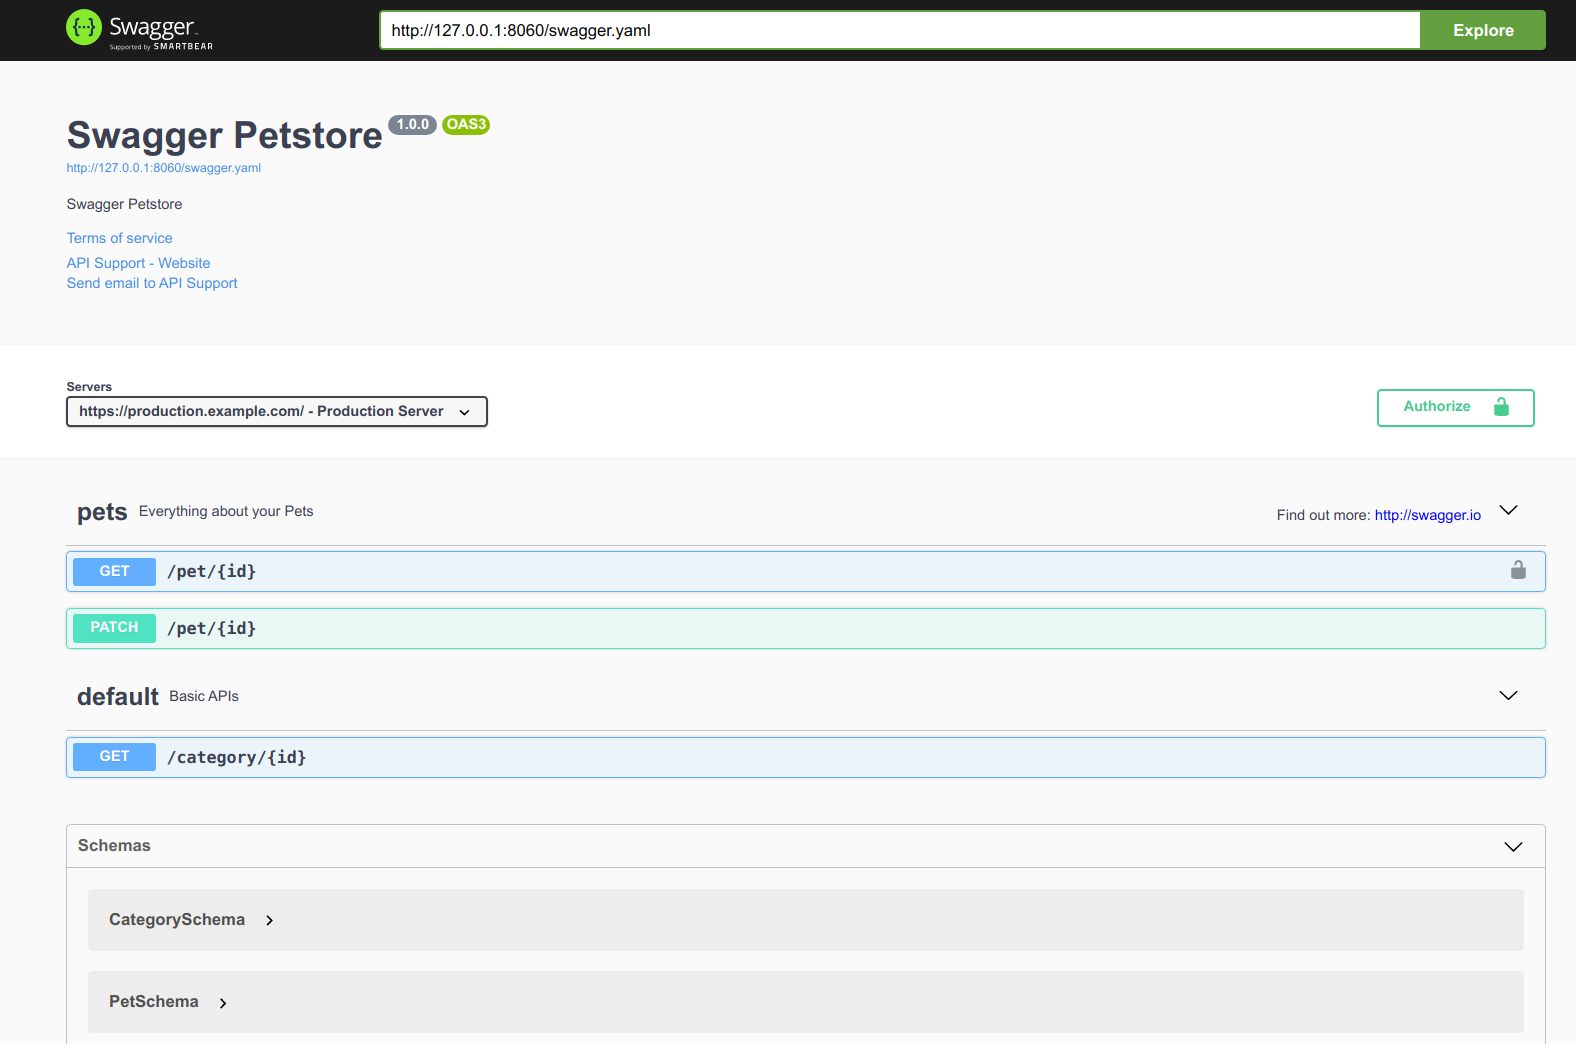
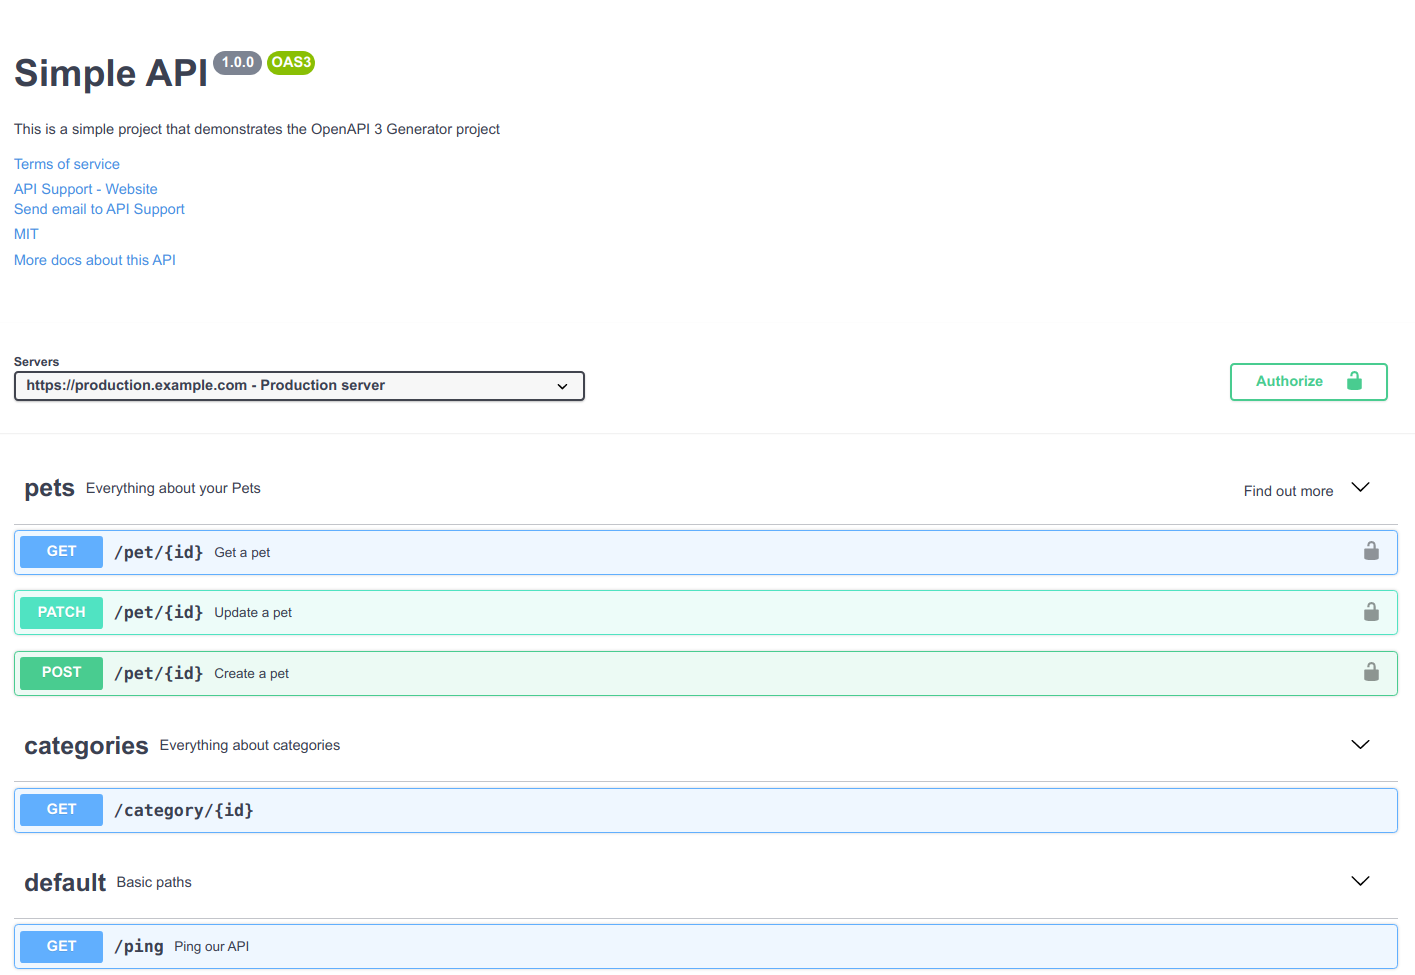
Add more improvements to the code

diff --git a/config.py b/config.py
@@ -1,21 +1,40 @@
-TITLE = 'Swagger Petstore'
-DESCRIPTION = 'Swagger Petstore'
+TITLE = 'Simple API'
+DESCRIPTION = 'This is a simple project that demonstrates the OpenAPI 3 Generator project'
 VERSION = '1.0.0'
 
 TERMS_OF_USE = 'http://example.com/terms/'
 
 CONTACT_NAME = 'API Support'
-CONTACT_URL = 'http://www.example.com/support'
+CONTACT_URL = 'http://example.com/support'
 CONTACT_EMAIL = 'support@example.com'
+
+EXTERNAL_DOCS_DESCRIPTION = 'More docs about this API'
+EXTERNAL_DOCS_URL = 'http://docs.example.com'
 
 LICENSE_NAME = 'MIT'
 LICENSE_URL = 'https://en.wikipedia.org/wiki/MIT_License'
 
-PRODUCTION_SERVER_URL = 'https://production.example.com/'
-PRODUCTION_SERVER_DESC = 'Production Server'
+OPENAPI_VERSION = '3.0.3'
 
-DEVELOPMENT_SERVER_URL = 'https://localhost:8000/'
-DEVELOPMENT_SERVER_DESC = 'Development Server'
+SERVERS = [
+    dict(url='https://production.example.com', description='Production server'),
+    dict(
+        url='https://{customer}.stage.example.com:{port}',
+        description='Stage server for a customer',
+        variables=dict(
+            username=dict(
+                default='mark',
+                description='A customer identifier',
+            ),
+            port=dict(
+                default='8001',
+                enum=['8001', '443'],
+                description='A customer identifier',
+            ),
+        )
+    ),
+    dict(url='http://localhost:8000', description='Development server'),
+]
 
 TAGS = [
     dict(
@@ -24,7 +43,11 @@ TAGS = [
         externalDocs=dict(description='Find out more', url='http://swagger.io')
     ),
     dict(
+        name='categories',
+        description='Everything about categories',
+    ),
+    dict(
         name='default',
-        description='Basic APIs'
+        description='Basic paths'
     )
 ]

diff --git a/api/paths/pets.py b/api/paths/pets.py
@@ -11,7 +11,7 @@ def add_paths(spec: APISpec):
     spec.path(
         path='/pet/{id}',
         parameters=[
-            param('id', 'ID of a Pet')
+            param('id', 'Identifier of a Pet')
         ],
         operations=dict(
             get=method(
@@ -21,6 +21,7 @@ def add_paths(spec: APISpec):
                     response_json(OK, 'An object a Pet', PetSchema),
                     response_json(NOT_FOUND, 'An object does not exist', ApiErrorSchema),
                 ],
+                operation_id='getPet',
                 security=[
                     bearer(),
                 ]
@@ -32,6 +33,7 @@ def add_paths(spec: APISpec):
                 responses=[
                     response_json(OK, 'A pet is created', PetSchema),
                 ],
+                operation_id='postPet',
                 security=[
                     bearer(),
                 ]
@@ -43,6 +45,7 @@ def add_paths(spec: APISpec):
                 responses=[
                     response_json(OK, 'Response an object of updated pet', PetSchema),
                 ],
+                operation_id='patchPet',
                 security=[
                     bearer(),
                 ]

diff --git a/api/project.py b/api/project.py
@@ -12,7 +12,7 @@ from api.paths import basic, pets, categories
 spec = APISpec(
     title=TITLE,
     version=VERSION,
-    openapi_version='3.0.2',
+    openapi_version=OPENAPI_VERSION,
     info=dict(
         description=DESCRIPTION,
         termsOfService=TERMS_OF_USE,
@@ -26,11 +26,9 @@ spec = APISpec(
             url=LICENSE_URL,
         )
     ),
-    servers=[
-        dict(url=PRODUCTION_SERVER_URL, description=PRODUCTION_SERVER_DESC),
-        dict(url=DEVELOPMENT_SERVER_URL, description=DEVELOPMENT_SERVER_DESC),
-    ],
+    servers=SERVERS,
     tags=TAGS,
+    externalDocs=dict(url=EXTERNAL_DOCS_URL, description=EXTERNAL_DOCS_DESCRIPTION),
     plugins=[
         MarshmallowPlugin(),
     ],

diff --git a/internal/helpers.py b/internal/helpers.py
@@ -32,7 +32,7 @@ def response_text(status: str, description: str):
     )
 
 
-def method(responses, tags=None, summary=None, request_body=None, security=None):
+def method(responses, tags=None, summary=None, request_body=None, operation_id=None, security=None):
     if not tags:
         tags = []
 
@@ -51,6 +51,9 @@ def method(responses, tags=None, summary=None, request_body=None, security=None)
 
     if summary:
         data['summary'] = summary
+
+    if operation_id:
+        data['operationId'] = operation_id
 
     if security:
         data['security'] = security

diff --git a/api/schemas/categories.py b/api/schemas/categories.py
@@ -5,14 +5,17 @@ class CategorySchema(Schema):
     id = fields.Int(
         dump_only=True,
         description='ID',
+        example=1,
     )
 
     name = fields.Str(
-        description='A name',
+        description='Name',
         required=True,
+        example='Pug dogs',
     )
 
     size = fields.Int(
         format='int64',
-        description='Size of name',
+        description='Number of elements in the category',
+        example=20,
     )

diff --git a/api/paths/categories.py b/api/paths/categories.py
@@ -9,10 +9,11 @@ def add_paths(spec: APISpec):
     spec.path(
         path='/category/{id}',
         parameters=[
-            param('id', 'ID of a Category')
+            param('id', 'Identifier of a category')
         ],
         operations=dict(
             get=method(
+                tags=['categories'],
                 responses=[
                     response_json(OK, 'Information about a category', CategorySchema),
                 ]
